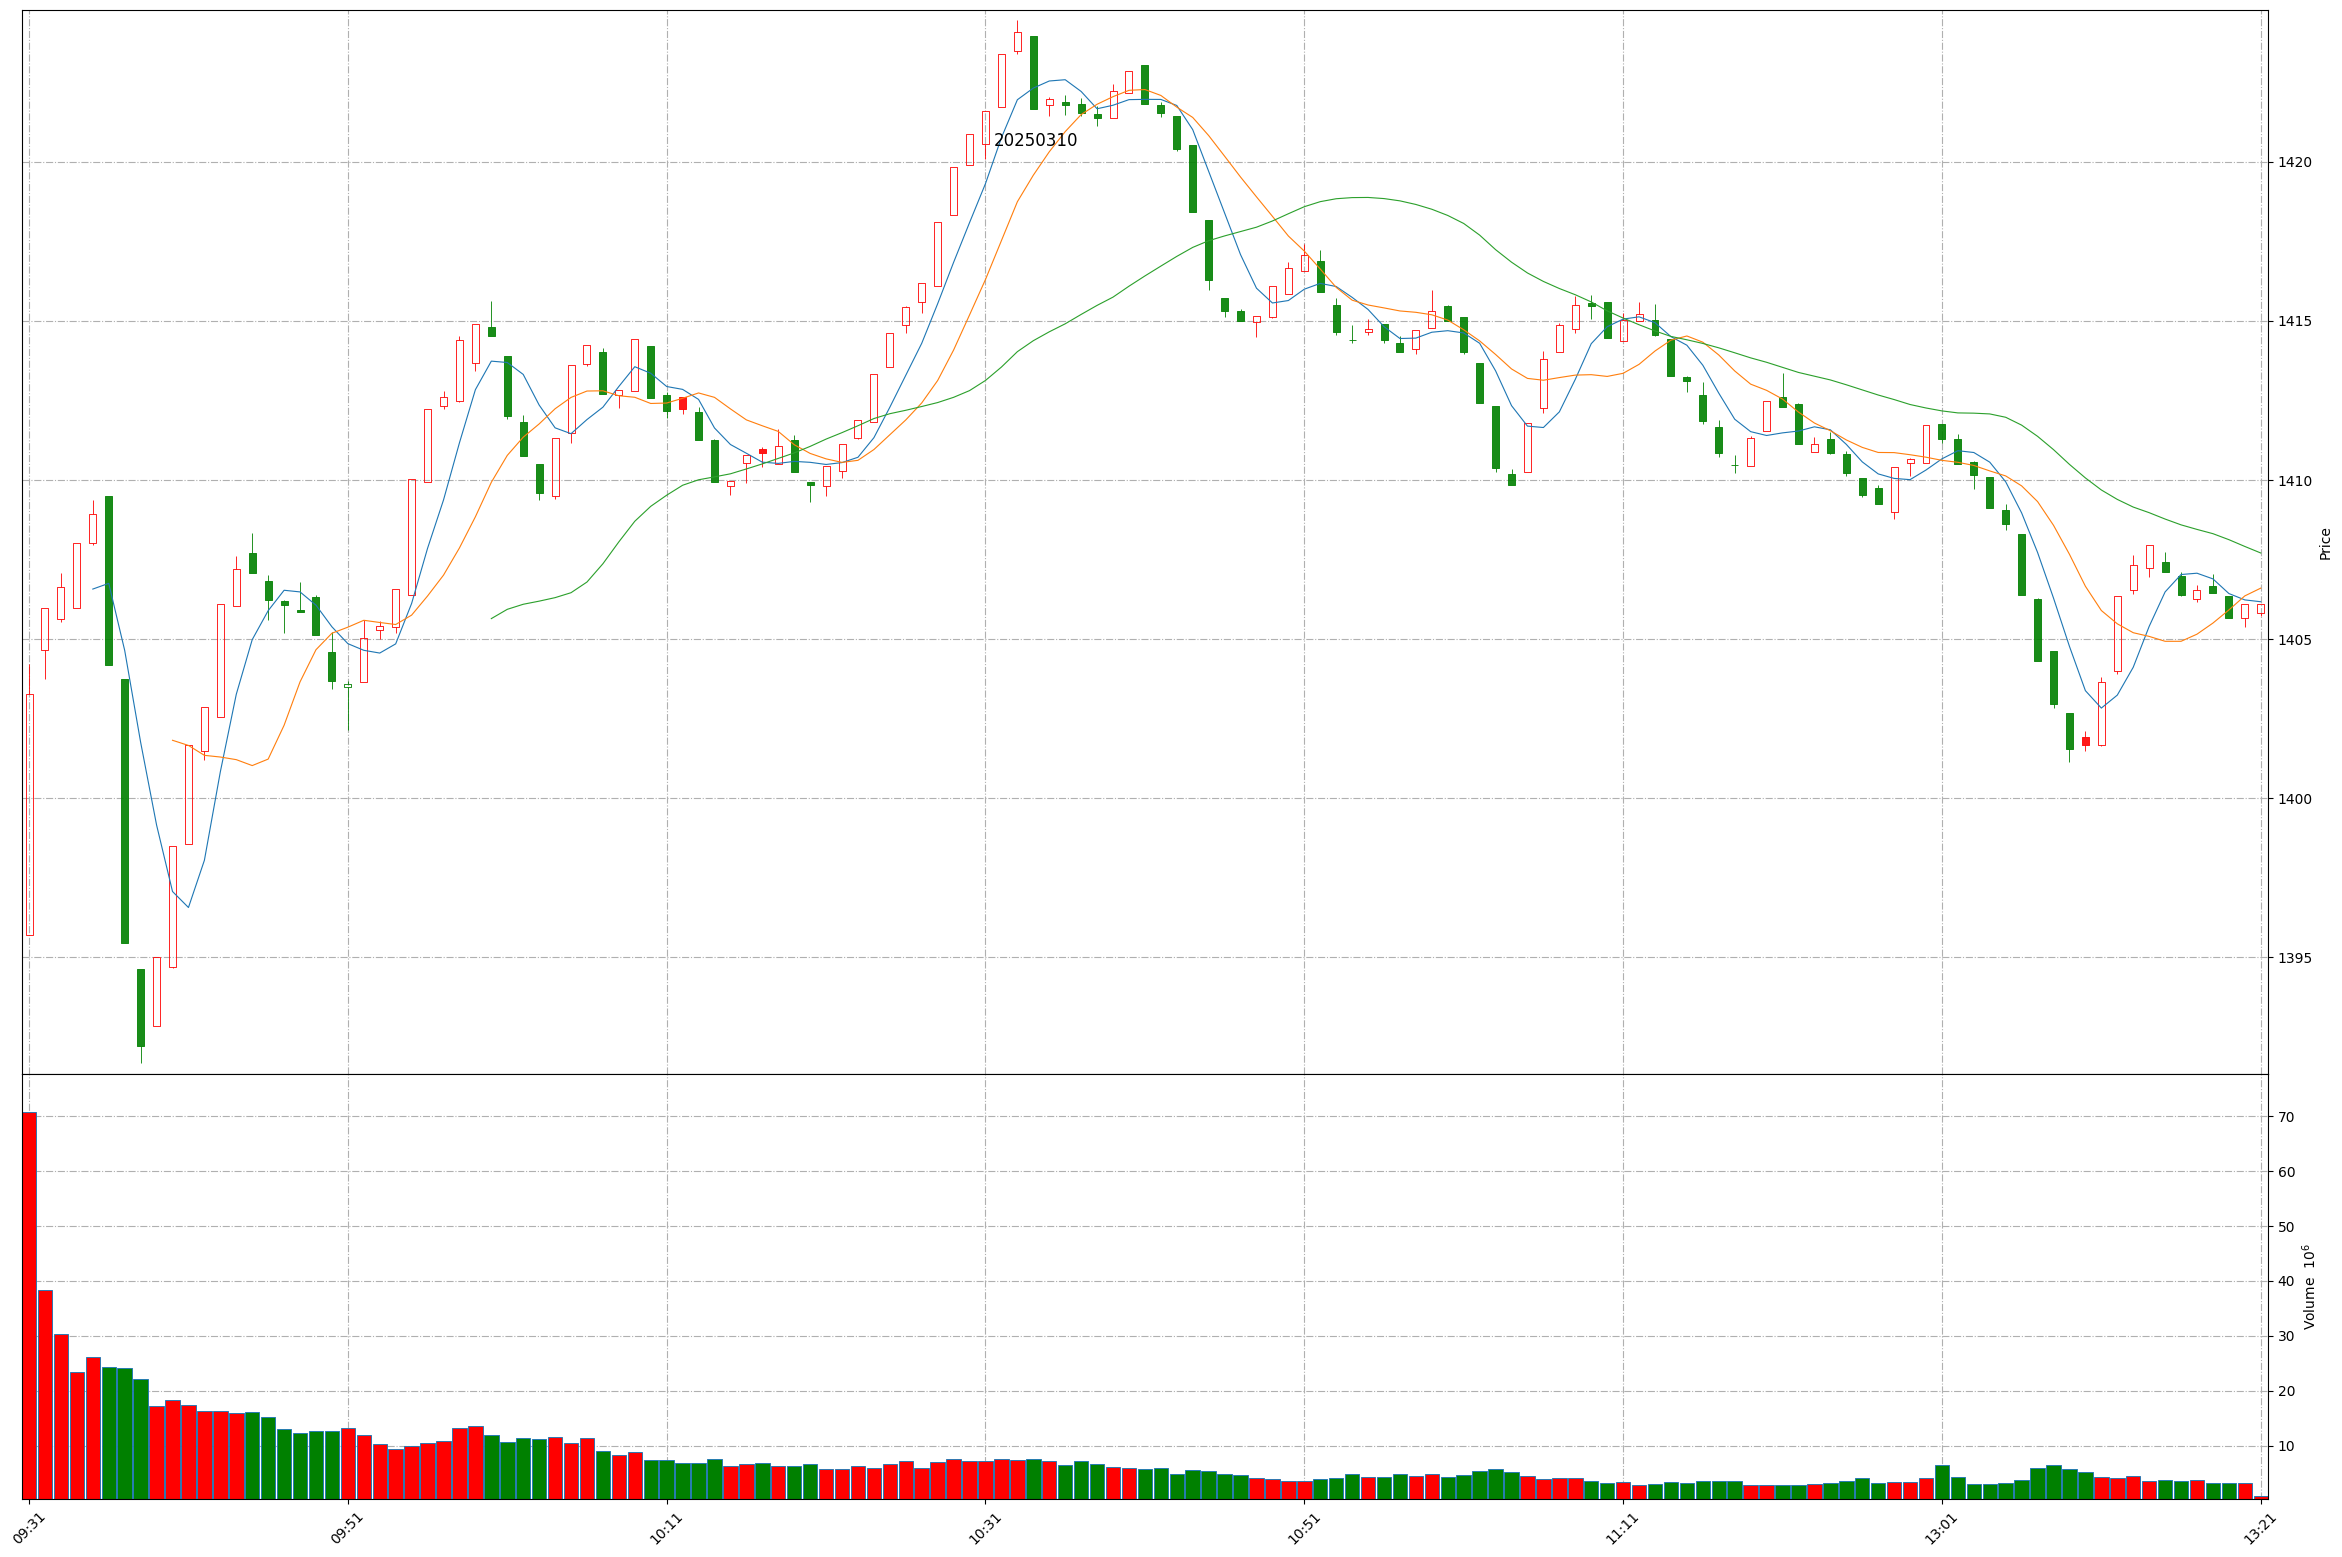
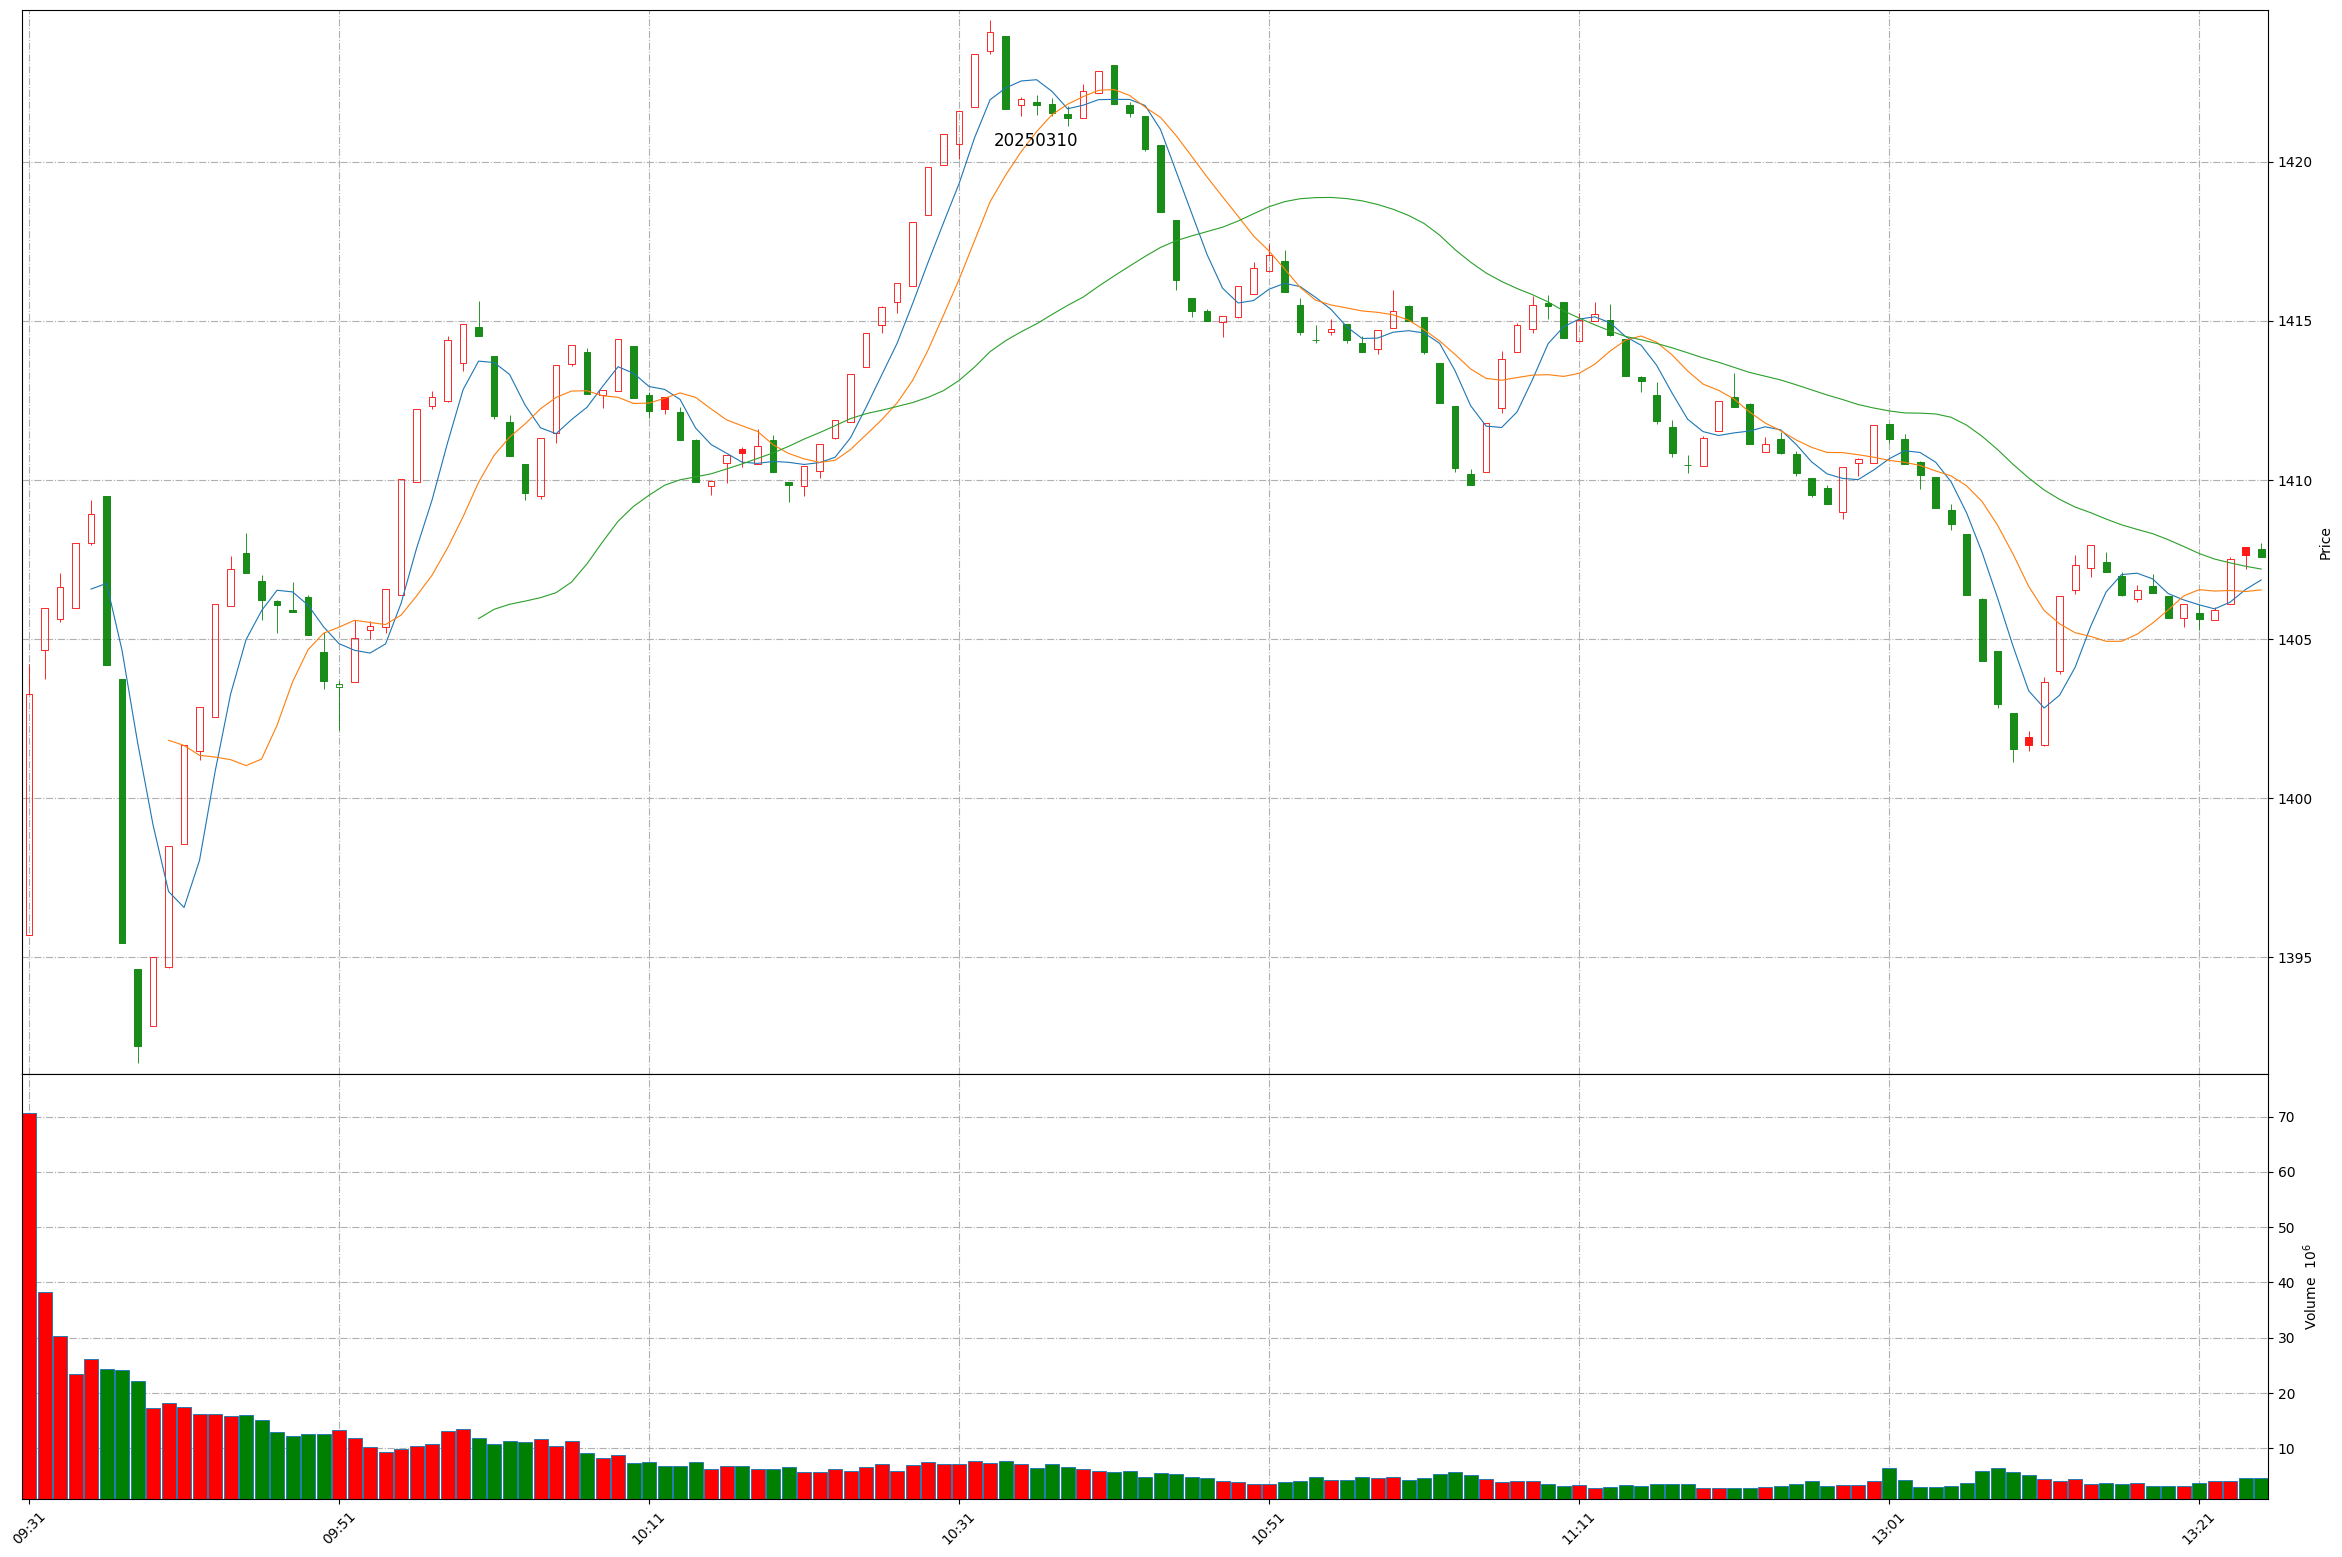
Github action update at 2025-03-10 13:25:12.

diff --git a/README.md b/README.md
@@ -1,11 +1,11 @@
 
 # Daily-A-share-market-quotes 每日 A 股指数（5min 更新）- 20250310
 
-### 上证指数 20250310 13:20
+### 上证指数 20250310 13:25
 ![](./fig/2025/3/20250310-sh000001.png)
 
-### 深证成指 20250310 13:20
+### 深证成指 20250310 13:25
 ![](./fig/2025/3/20250310-sz399001.png)
 
-### 北证50 20250310 13:20
+### 北证50 20250310 13:25
 ![](./fig/2025/3/20250310-bj899050.png)
